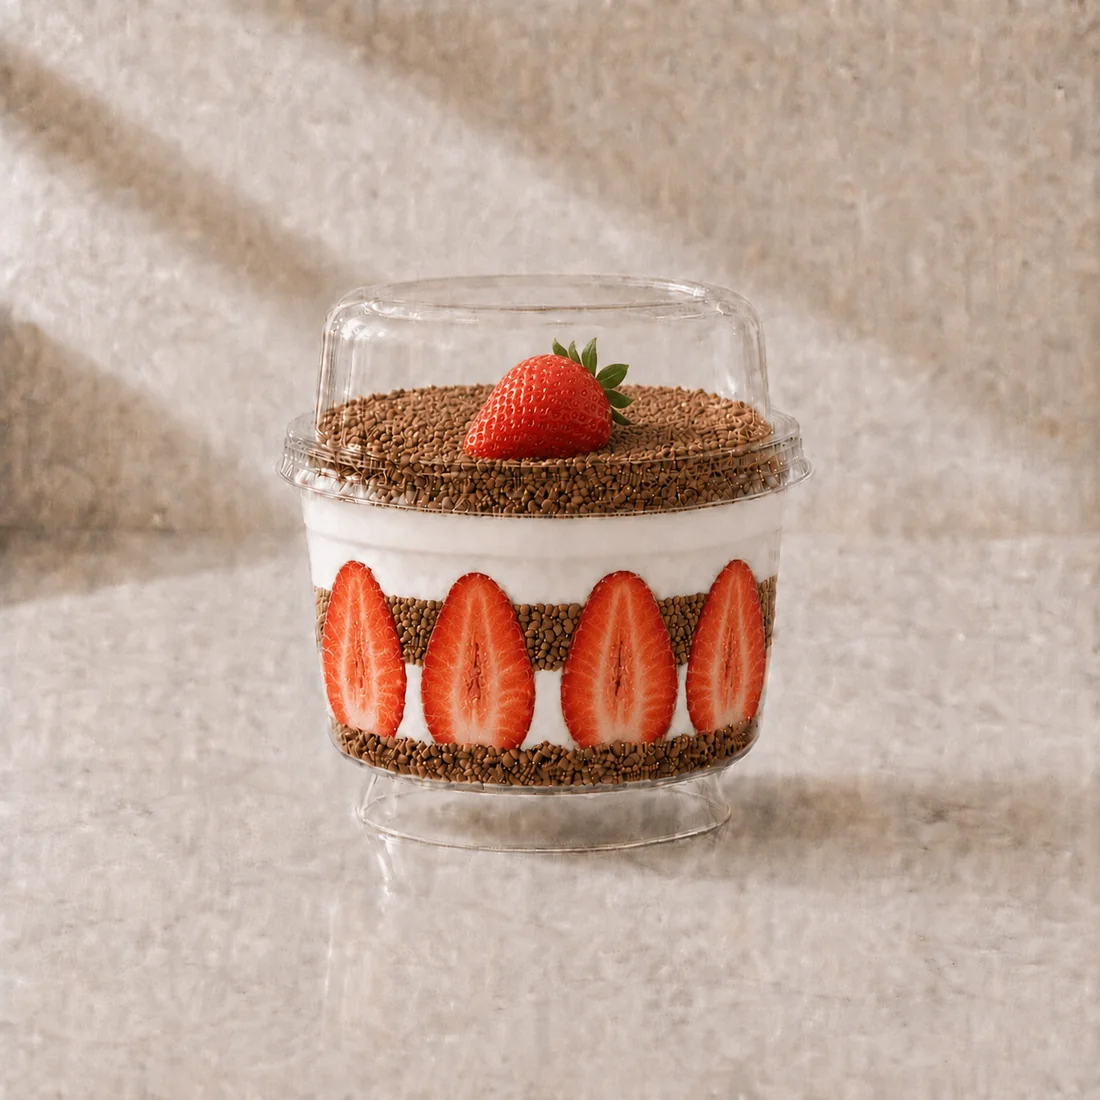
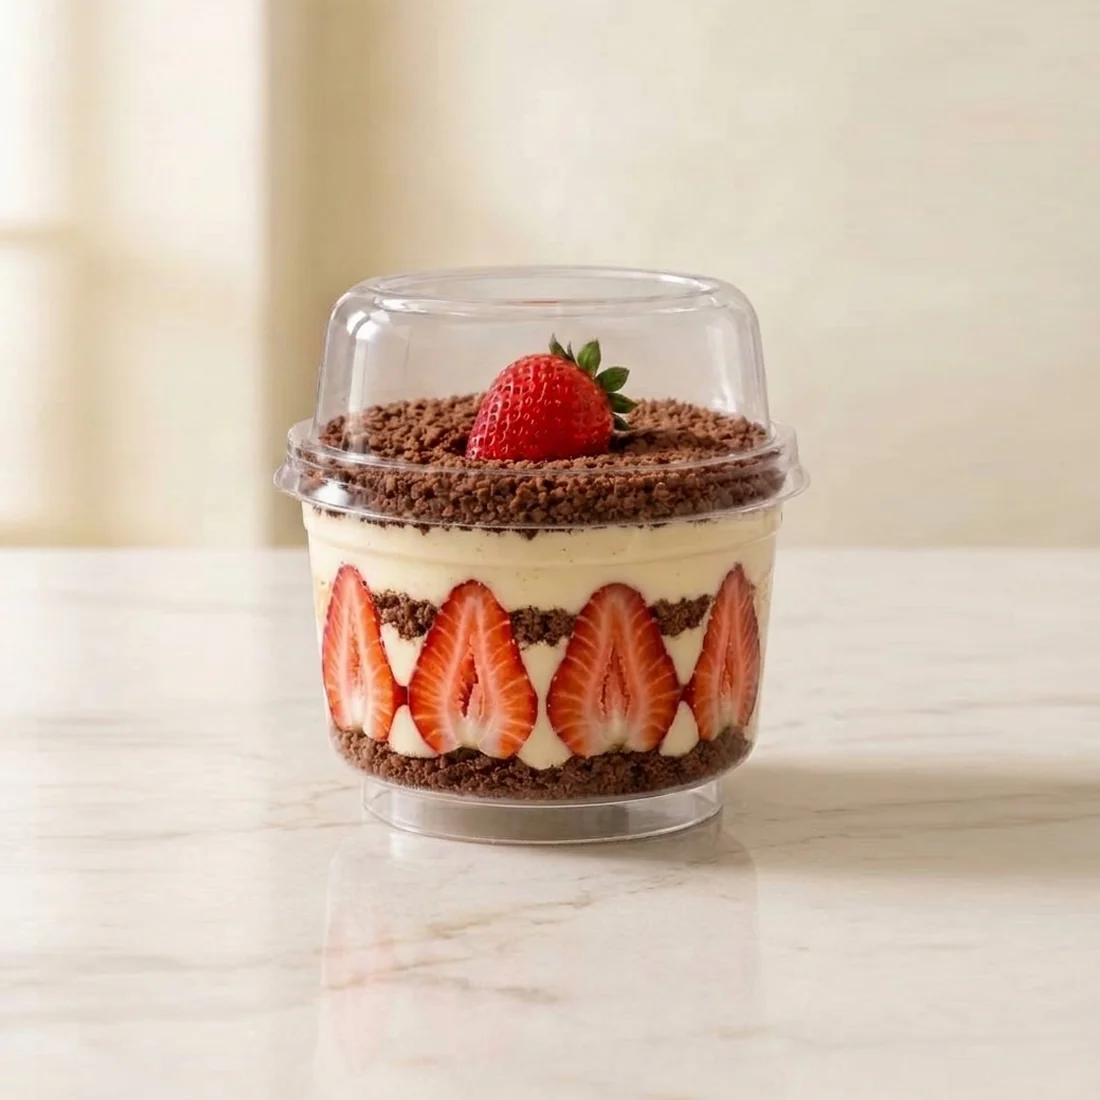
Kakaolu Bisküvili Çilekli Magnolya görsellerini yenile
Açık mermer zeminde, Çilekli düzeninde kakaolu bisküvi kırığıyla; katman
noktaları yeni görsellere göre.

diff --git a/src/data/layers.ts b/src/data/layers.ts
@@ -118,8 +118,8 @@ const seeds: Seed[] = [
     slug: 'kakaolu-biskuvili-cilekli-magnolya',
     names: ['Kakaolu bisküvi', 'Magnolya kreması', 'Taze çilek', 'Kakaolu taban'],
     colors: [KB, C, S, KB],
-    cup: { x: 72, y: [40, 49, 60, 68] },
-    jar: { x: 74, y: [44, 52, 66, 77] },
+    cup: { x: 71, y: [45, 50.5, 61, 71] },
+    jar: { x: 71, y: [50, 56, 67, 76] },
   },
   {
     slug: 'kakaolu-biskuvili-muzlu-magnolya',
